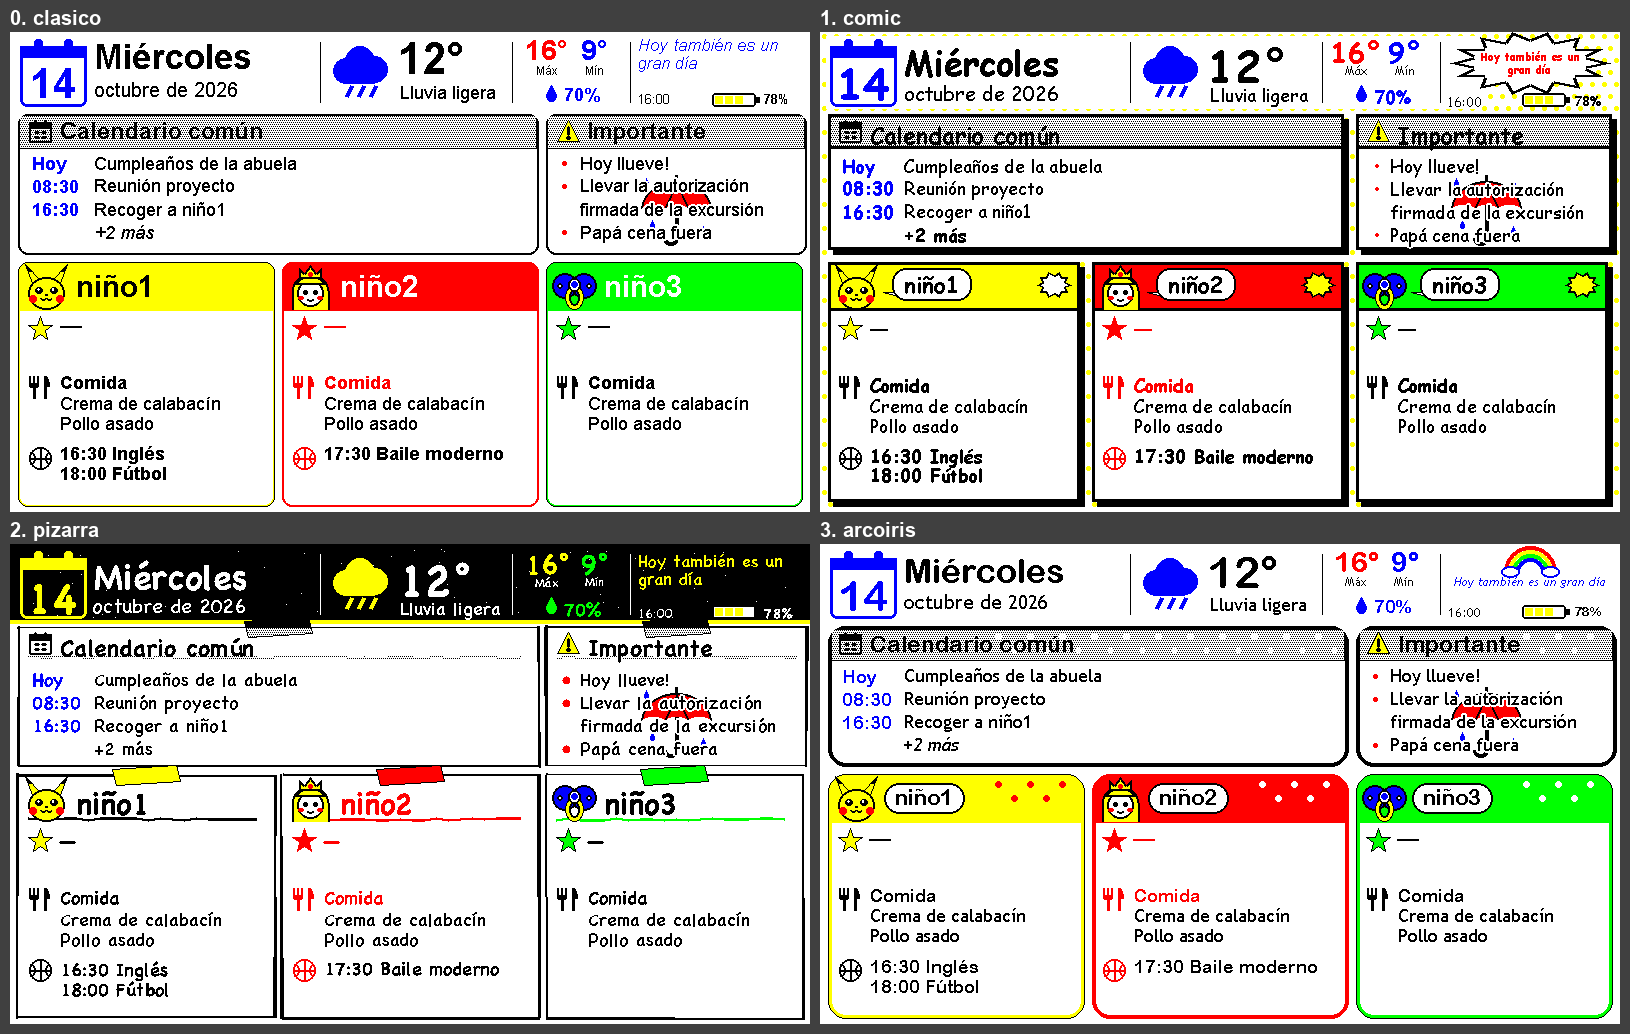
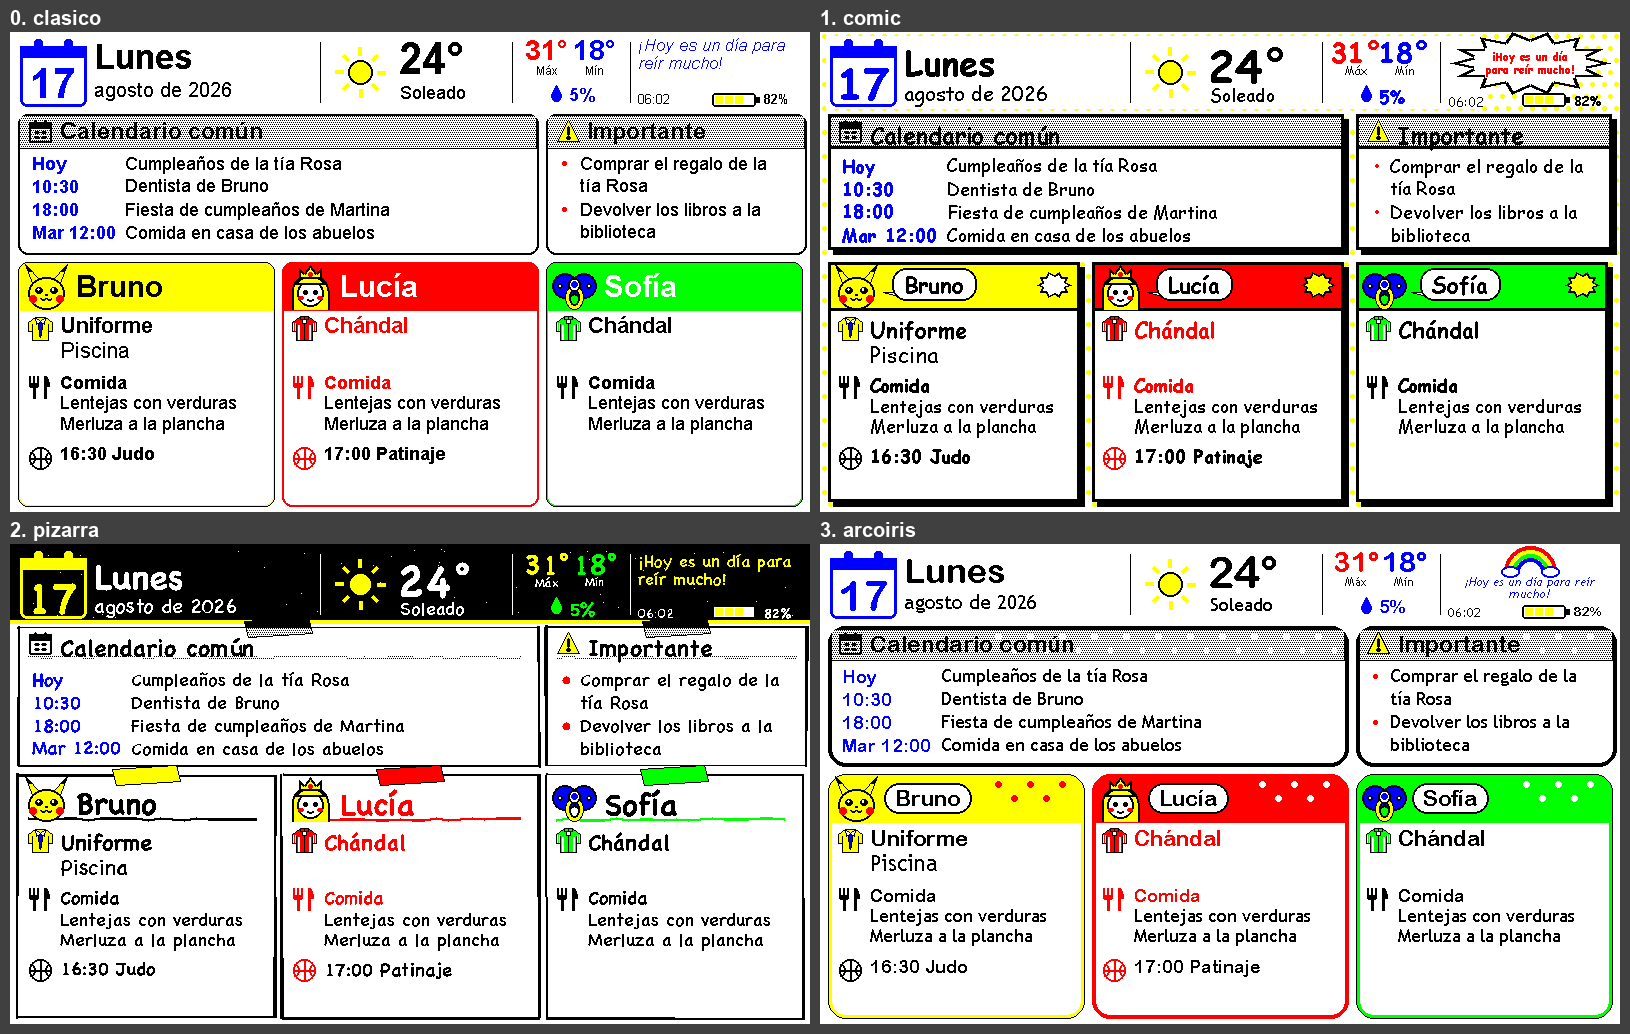
Sync: sample data is an invented family

diff --git a/server/render.py b/server/render.py
@@ -544,30 +544,28 @@ def render(data: dict) -> Image.Image:
 
 
 def fixture(now: datetime | None = None) -> dict:
-    """Sample data for the demo mode and for design work. Dates follow `now`."""
-    now = now or datetime(2026, 10, 14, 16, 0)
+    """Sample data (an invented family) for design work. Dates follow `now`."""
+    now = now or datetime(2026, 8, 17, 6, 2)
     day = now.date()
     return {
-        "now": now, "day": day, "frase": "Hoy también es un gran día",
-        "device": {"bat": "78", "usb": "0"},
-        "weather": {"today": True, "code": 61, "desc": "Lluvia ligera", "icon": "rain",
-                    "day_icon": "rain", "temp": 12, "tmax": 16, "tmin": 9, "rain": 70},
-        "importante": ["Llevar la autorización firmada de la excursión", "Papá cena fuera"],
+        "now": now, "day": day, "frase": "¡Hoy es un día para reír mucho!",
+        "device": {"bat": "82", "usb": "0"},
+        "weather": {"today": True, "code": 1, "desc": "Soleado", "icon": "sun", "day_icon": "sun",
+                    "temp": 24, "tmax": 31, "tmin": 18, "rain": 5},
+        "importante": ["Comprar el regalo de la tía Rosa", "Devolver los libros a la biblioteca"],
         "calendar_title": "Calendario común",
-        "agenda": [(day, "", "Cumpleaños de la abuela"), (day, "08:30", "Reunión proyecto"),
-                   (day, "16:30", "Recoger a niño1"),
-                   (day + timedelta(days=1), "", "Excursión al campo"),
-                   (day + timedelta(days=1), "19:30", "Cena en casa")],
-        "menu": {"primero": "Crema de calabacín", "segundo": "Pollo asado", "guarnicion": "Patatas",
-                 "postre": "Fruta de temporada"},
+        "agenda": [(day, "", "Cumpleaños de la tía Rosa"), (day, "10:30", "Dentista de Bruno"),
+                   (day, "18:00", "Fiesta de cumpleaños de Martina"),
+                   (day + timedelta(days=1), "12:00", "Comida en casa de los abuelos")],
+        "menu": {"primero": "Lentejas con verduras", "segundo": "Merluza a la plancha",
+                 "guarnicion": "Ensalada", "postre": "Yogur"},
         "kids": [
-            {"name": "niño1", "icon": "pikachu", "color": "amarillo",
-             "activities": [("16:30", "Inglés"), ("18:00", "Fútbol")],
-             "notes": [(day + timedelta(days=3), "Excursión al museo")]},
-            {"name": "niño2", "icon": "princesa", "color": "rojo",
-             "activities": [("17:30", "Baile moderno")], "notes": []},
-            {"name": "niño3", "icon": "chupete", "color": "verde",
-             "activities": [], "notes": [(day, "Traer ropa de cambio")]},
+            {"name": "Bruno", "icon": "pikachu", "color": "amarillo", "clothes": "Uniforme",
+             "pool": True, "activities": [("16:30", "Judo")], "notes": []},
+            {"name": "Lucía", "icon": "princesa", "color": "rojo", "clothes": "Chándal",
+             "pool": False, "activities": [("17:00", "Patinaje")], "notes": []},
+            {"name": "Sofía", "icon": "chupete", "color": "verde", "clothes": "Chándal",
+             "pool": False, "activities": [], "notes": []},
         ],
     }
 
